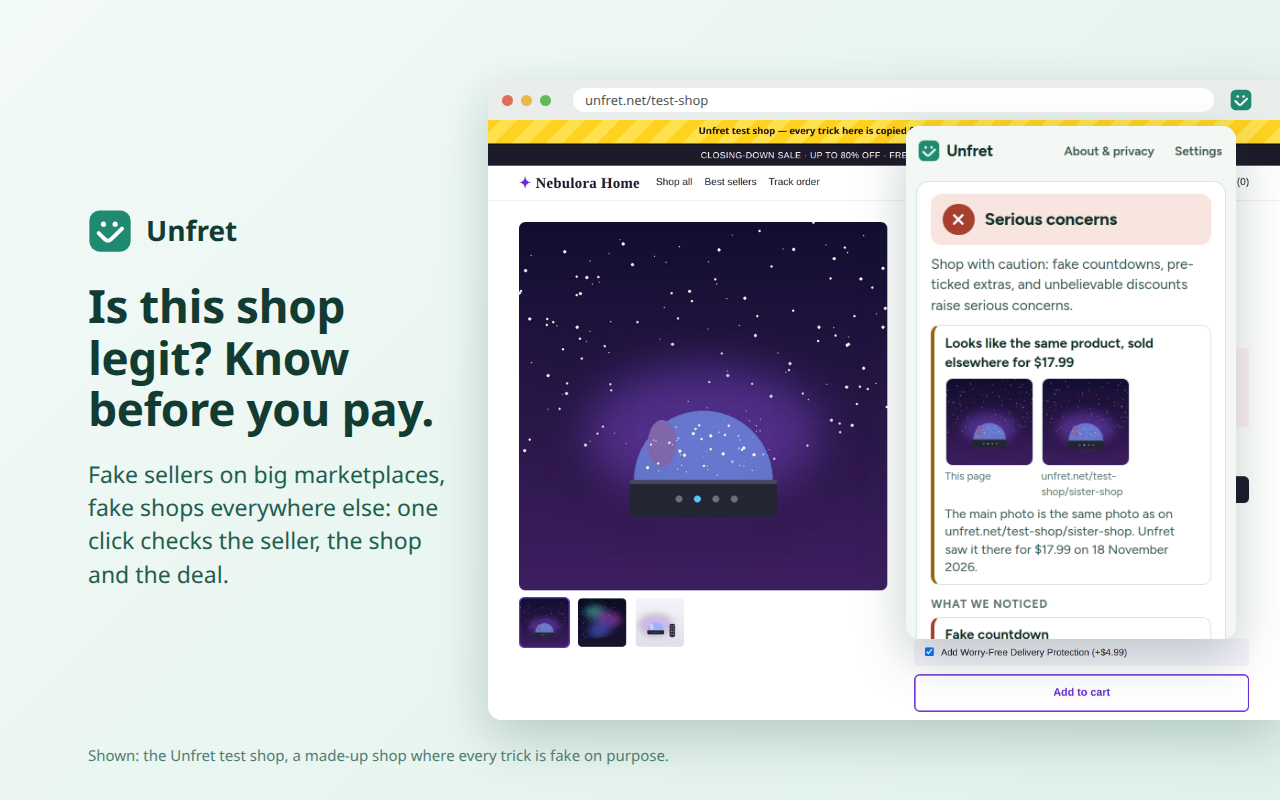
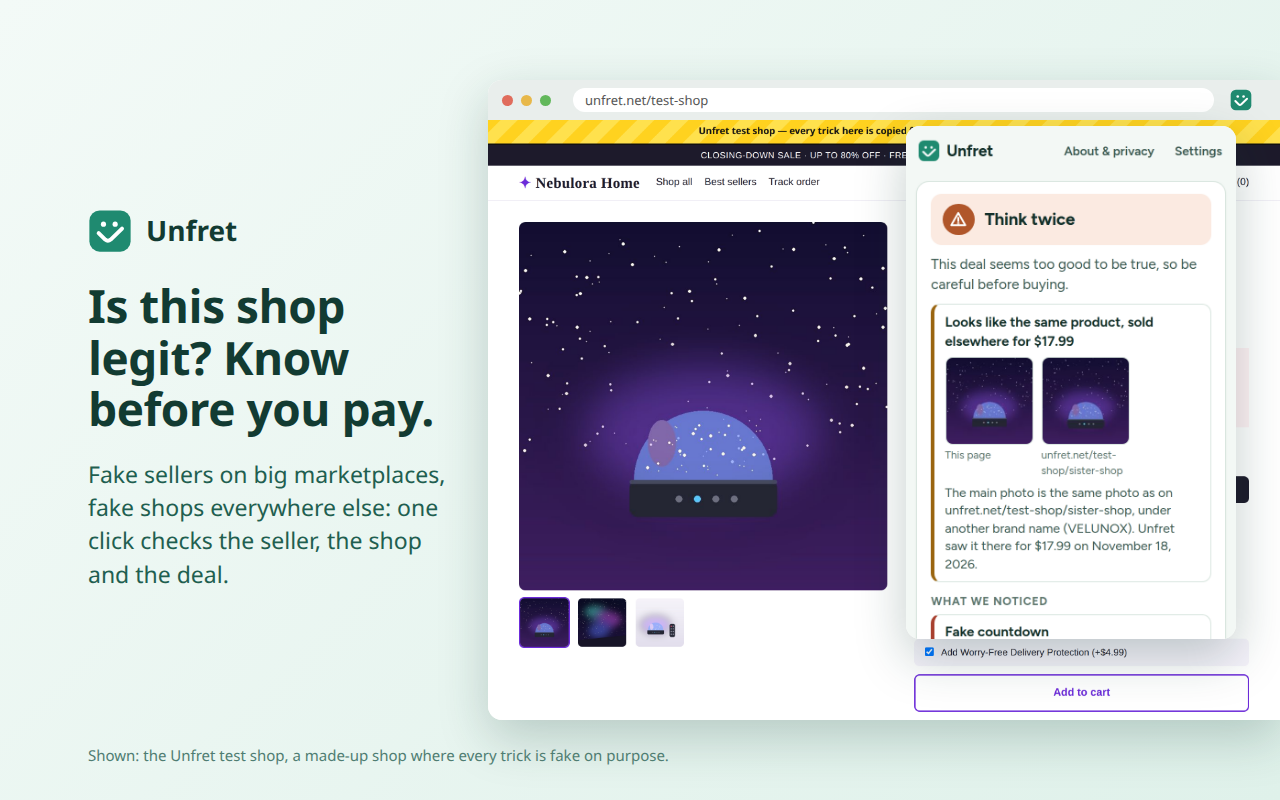
Store images: the site's tagline on the promo tiles; screenshots checked again
The promo tiles say "Check before you pay." (the website's hero) instead of
"Shop without the worry.", and the marquee's line names fake sellers on
marketplaces first, as the listing does. Rendered with `make icons`.

The screenshots' results were re-recorded with `make screenshots-capture` on
dev.unfret.net (the server's current date format and the "Prices, delivery and
returns" area name) and the screenshots rendered with `make screenshots`. They
differ from the ones submitted with 0.12.0.

Claude-Session: https://claude.ai/code/session_014HgVKRoNZC5gcKdzyYgCWJ

Changed region(s): [[0.7188, 0.3125, 0.9375, 0.8125], [0.75, 0.25, 0.875, 0.2812]]

diff --git a/CHANGELOG.md b/CHANGELOG.md
@@ -3,6 +3,14 @@
 Releases of the Unfret browser extension. (Earlier releases are described in their commit messages and in the
 backend's changelog, which lists each one published at `/extension`.)
 
+## Unreleased
+
+- **Store images for the next release** (not part of the extension package): the promo tiles say "Check before you
+  pay.", the website's tagline, instead of "Shop without the worry.", and the marquee's line names fake sellers on
+  marketplaces first. The screenshots' results were checked again on dev.unfret.net (dates as the server now writes
+  them, "November 18, 2026"; "Prices, delivery and returns" as the area's name) and the screenshots rendered from
+  them; they differ from the ones submitted with 0.12.0.
+
 ## 0.12.0 (unreleased)
 
 - **The result card**, as on the website and the Android app (backend: the result card): the same product sold
